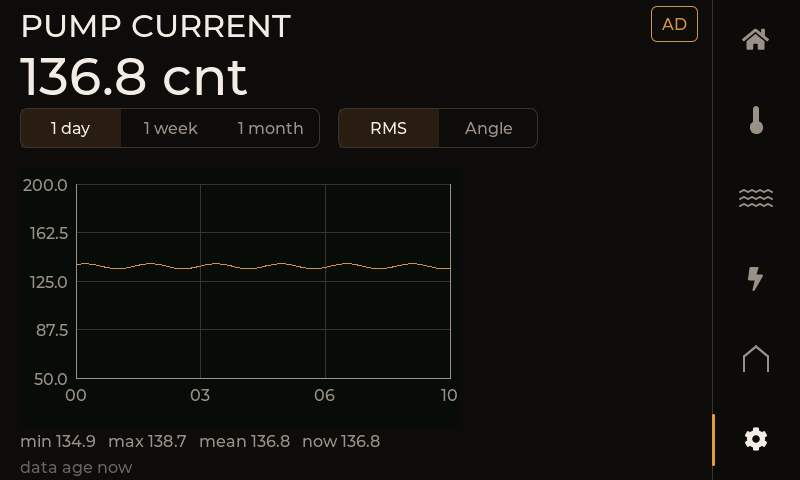
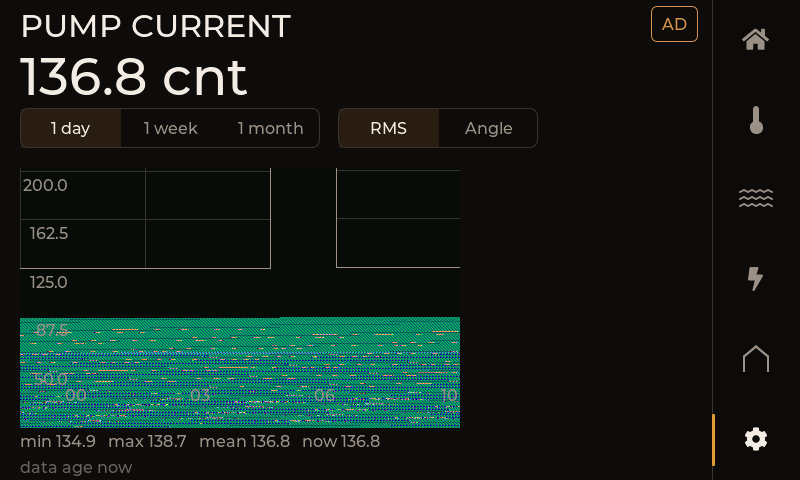
28_hauszentrale: stay on pioarduino platform; RGB/LVGL perf regression

diff --git a/ESP32/prj_template/src/tpl_ws7.cpp b/ESP32/prj_template/src/tpl_ws7.cpp
@@ -44,6 +44,9 @@ static const char* TAG __attribute__((unused)) = "tpl_ws7";
 #ifndef TPL_WS7_PCLK_HZ
 #define TPL_WS7_PCLK_HZ (16 * 1000 * 1000)
 #endif
+#ifndef TPL_WS7_FULL_FRAME
+#define TPL_WS7_FULL_FRAME 0
+#endif
 
 static uint16_t s_output_shadow = 0;  // 12-bit shadow of CH422G output
 
@@ -416,8 +419,26 @@ lv_display_t* tpl_ws7_display_init(uint8_t rotation, uint32_t* buf,
   // Create LVGL display (S4.04, S4.05)
   s_lv_display = lv_display_create(TPL_WS7_SCREEN_WIDTH, TPL_WS7_SCREEN_HEIGHT);
   if (s_lv_display) {
+#if TPL_WS7_FULL_FRAME
+    /* One PSRAM frame buffer: LVGL renders the whole screen and the flush
+     * callback issues a single draw_bitmap. The partial path needs one
+     * draw_bitmap per band, and each call waits for the RGB DMA; on IDF 5.5
+     * that made a full redraw take ~0.5 s. */
+    const size_t full_bytes =
+        (size_t)TPL_WS7_SCREEN_WIDTH * TPL_WS7_SCREEN_HEIGHT * 2;
+    void* full_buf =
+        heap_caps_malloc(full_bytes, MALLOC_CAP_SPIRAM | MALLOC_CAP_8BIT);
+    if (!full_buf) {
+      ESP_LOGE(TAG, "Full-frame PSRAM buffer alloc failed (%u B)",
+               (unsigned)full_bytes);
+      return NULL;
+    }
+    lv_display_set_buffers(s_lv_display, full_buf, NULL, full_bytes,
+                           LV_DISPLAY_RENDER_MODE_FULL);
+#else
     lv_display_set_buffers(s_lv_display, buf, NULL, buf_size,
                            LV_DISPLAY_RENDER_MODE_PARTIAL);
+#endif
     lv_display_set_flush_cb(s_lv_display, ws7_rgb_flush_cb);
     lv_display_set_rotation(s_lv_display, lv_rotation);
     lv_display_set_default(s_lv_display);  // S4.05

diff --git a/ESP32/28_hauszentrale/include/lv_conf.h b/ESP32/28_hauszentrale/include/lv_conf.h
@@ -72,11 +72,11 @@
  *=========================*/
 
 /* The built-in allocator uses a fixed 64 KB pool, which cannot hold the
- * heater canvas (232x214x2 = 99 KB) or the 2x scaled clock layer. Use a
- * custom PSRAM-first allocator (src/haus_lv_mem.cpp): most LVGL objects are
- * under the 4 KB CONFIG_SPIRAM_MALLOC_ALWAYSINTERNAL line and would otherwise
- * stay in internal SRAM (docs/memory_report.md, S28.07). */
-#define LV_USE_STDLIB_MALLOC   LV_STDLIB_CUSTOM
+ * heater canvas (232x214x2 = 99 KB). The C library allocator keeps small
+ * LVGL objects in internal SRAM (CONFIG_SPIRAM_MALLOC_ALWAYSINTERNAL = 4 KB)
+ * and only large buffers in PSRAM. Moving the objects to PSRAM made every
+ * screen rebuild and redraw several times slower on the IDF 5.5 driver. */
+#define LV_USE_STDLIB_MALLOC   LV_STDLIB_CLIB
 #define LV_USE_STDLIB_STRING   LV_STDLIB_CLIB
 #define LV_USE_STDLIB_SPRINTF  LV_STDLIB_CLIB
 

diff --git a/ESP32/28_hauszentrale/host_harness/src/main.c b/ESP32/28_hauszentrale/host_harness/src/main.c
@@ -162,6 +162,7 @@ int main(int argc, char* argv[]) {
   draw_buf.unaligned_data = raw_buf;
 
   lv_display_t* disp = lv_display_create(SCREEN_W, SCREEN_H);
+  lv_display_set_rotation(disp, LV_DISPLAY_ROTATION_0); /* landscape */
   lv_display_set_flush_cb(disp, flush_cb);
   lv_display_set_draw_buffers(disp, &draw_buf, NULL);
   lv_display_set_render_mode(disp, LV_DISPLAY_RENDER_MODE_FULL);

diff --git a/ESP32/28_hauszentrale/src/haus_lv_mem.cpp b/ESP32/28_hauszentrale/src/haus_lv_mem.cpp
@@ -14,6 +14,8 @@
 
 #include "haus_mem.h"
 
+#if LV_USE_STDLIB_MALLOC == LV_STDLIB_CUSTOM
+
 extern "C" {
 
 void lv_mem_init(void) {}
@@ -57,3 +59,5 @@ void lv_mem_monitor_core(lv_mem_monitor_t* mon_p) {
 lv_result_t lv_mem_test_core(void) { return LV_RESULT_OK; }
 
 }  // extern "C"
+
+#endif  /* LV_USE_STDLIB_MALLOC == LV_STDLIB_CUSTOM */
